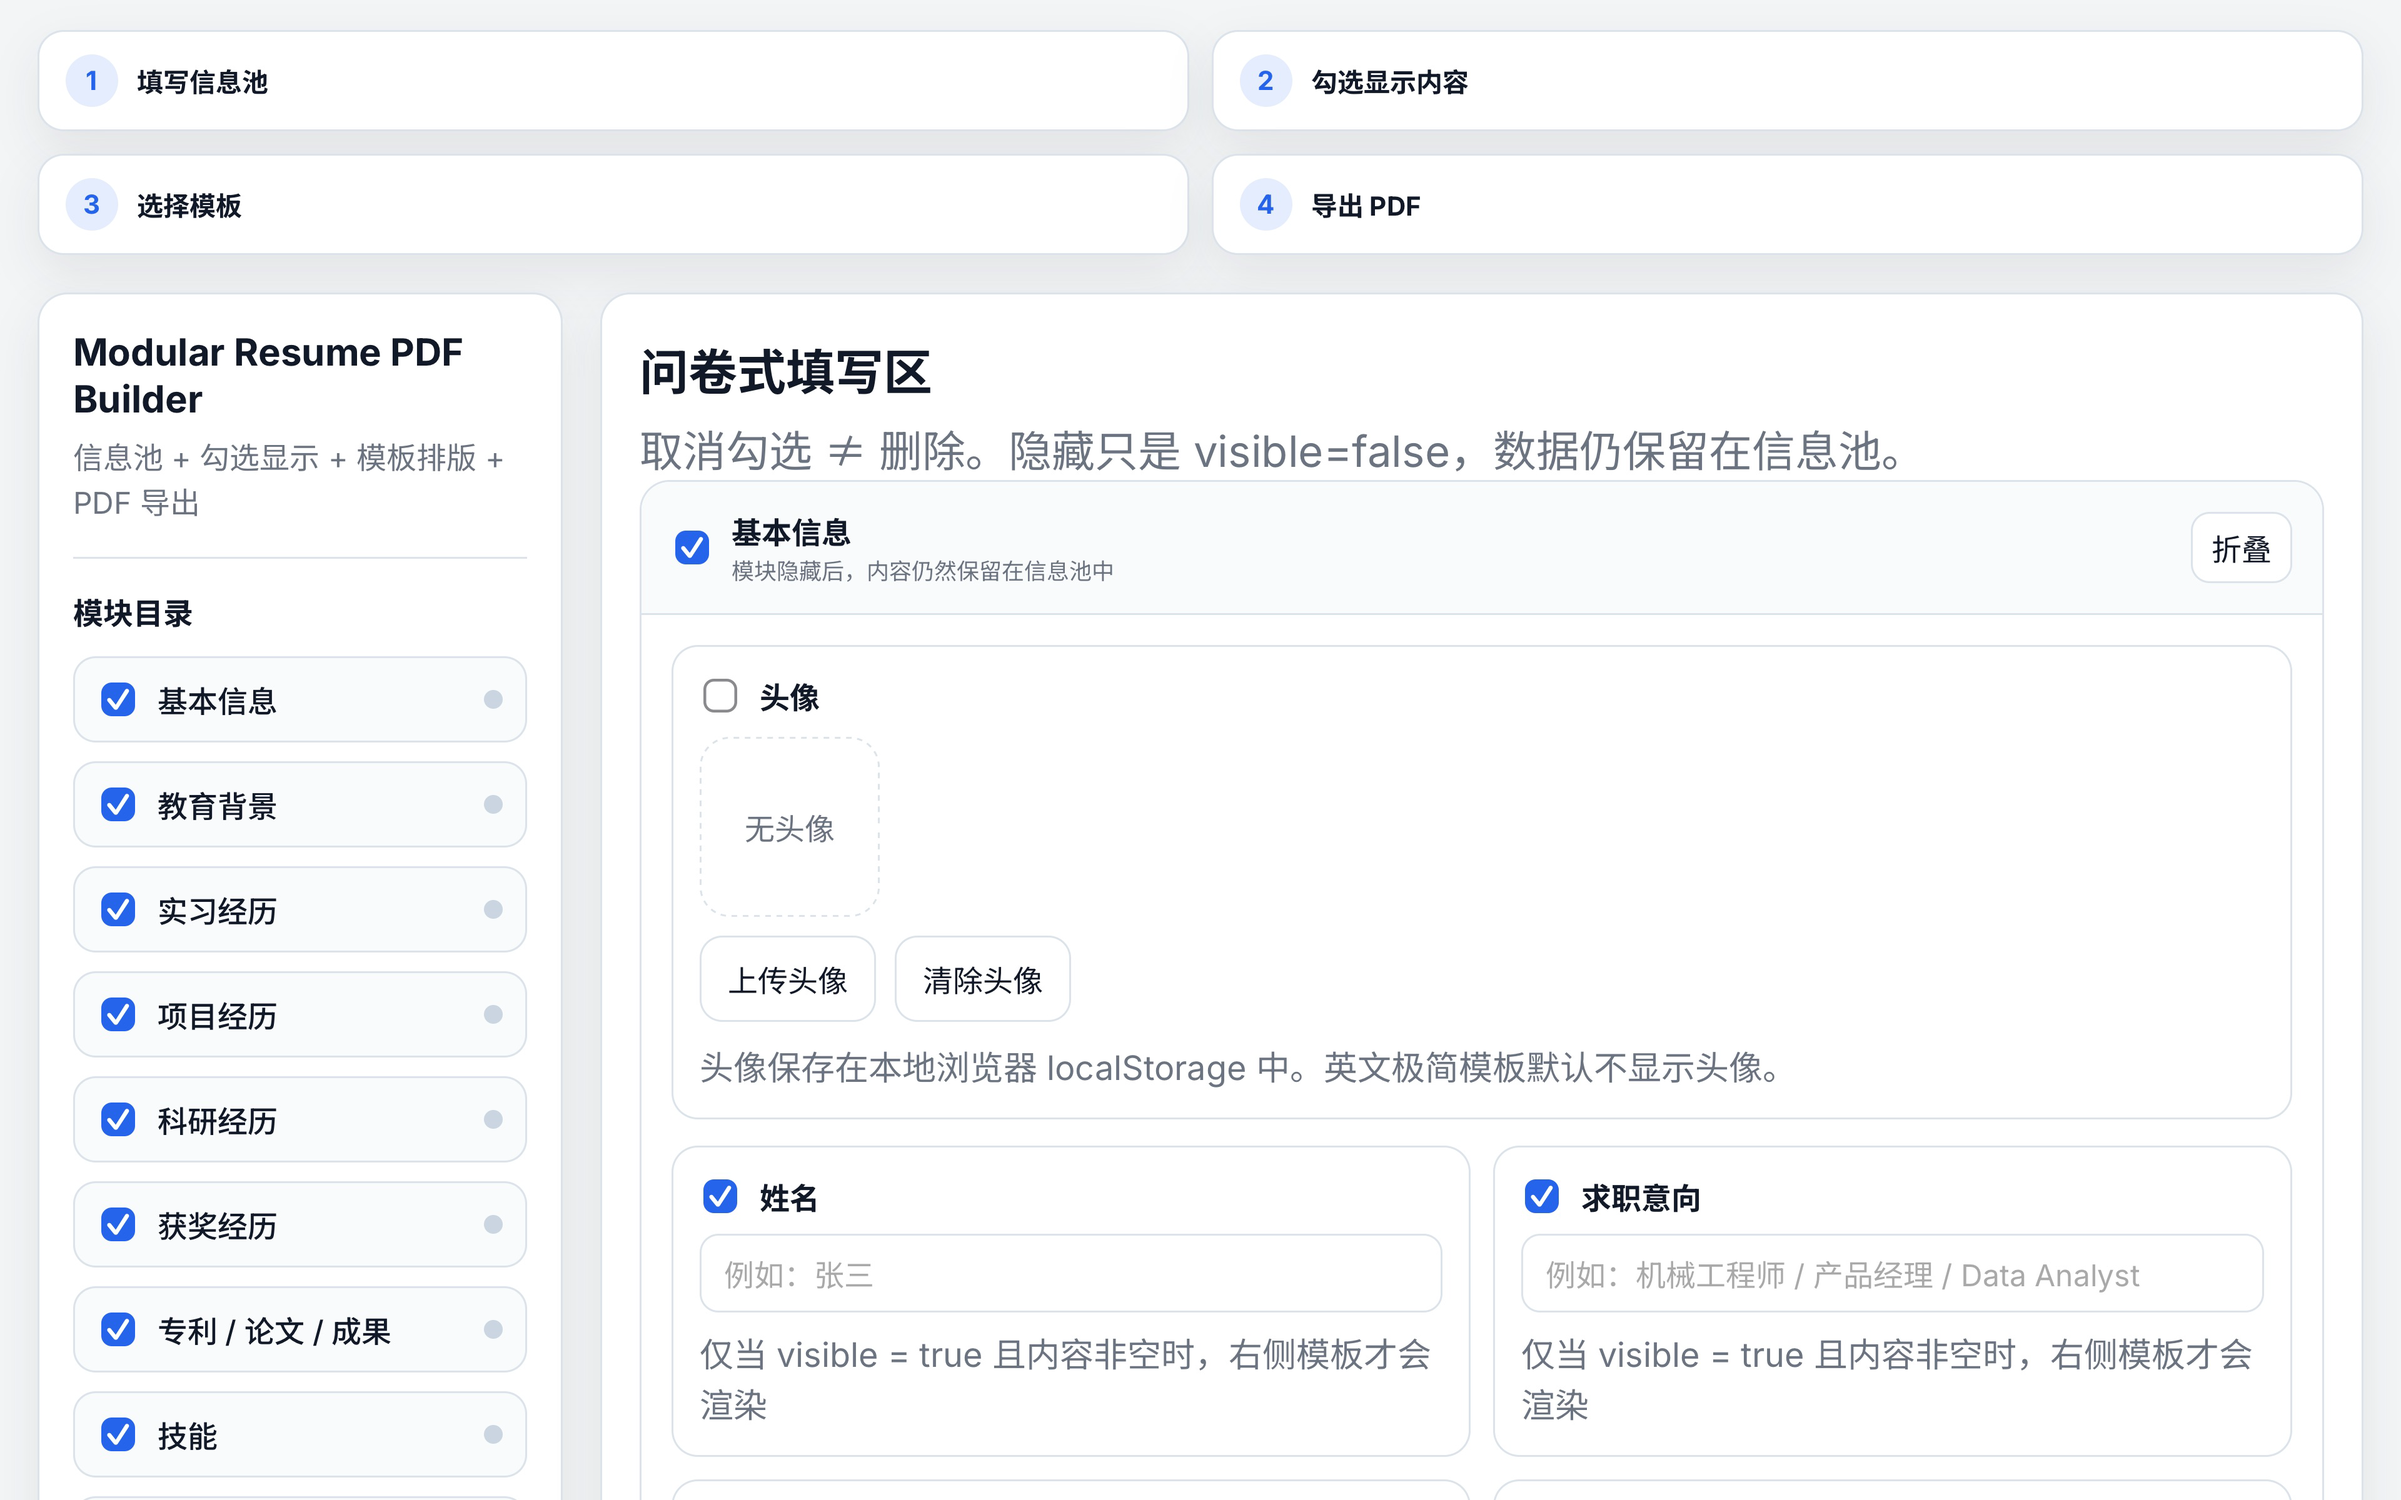
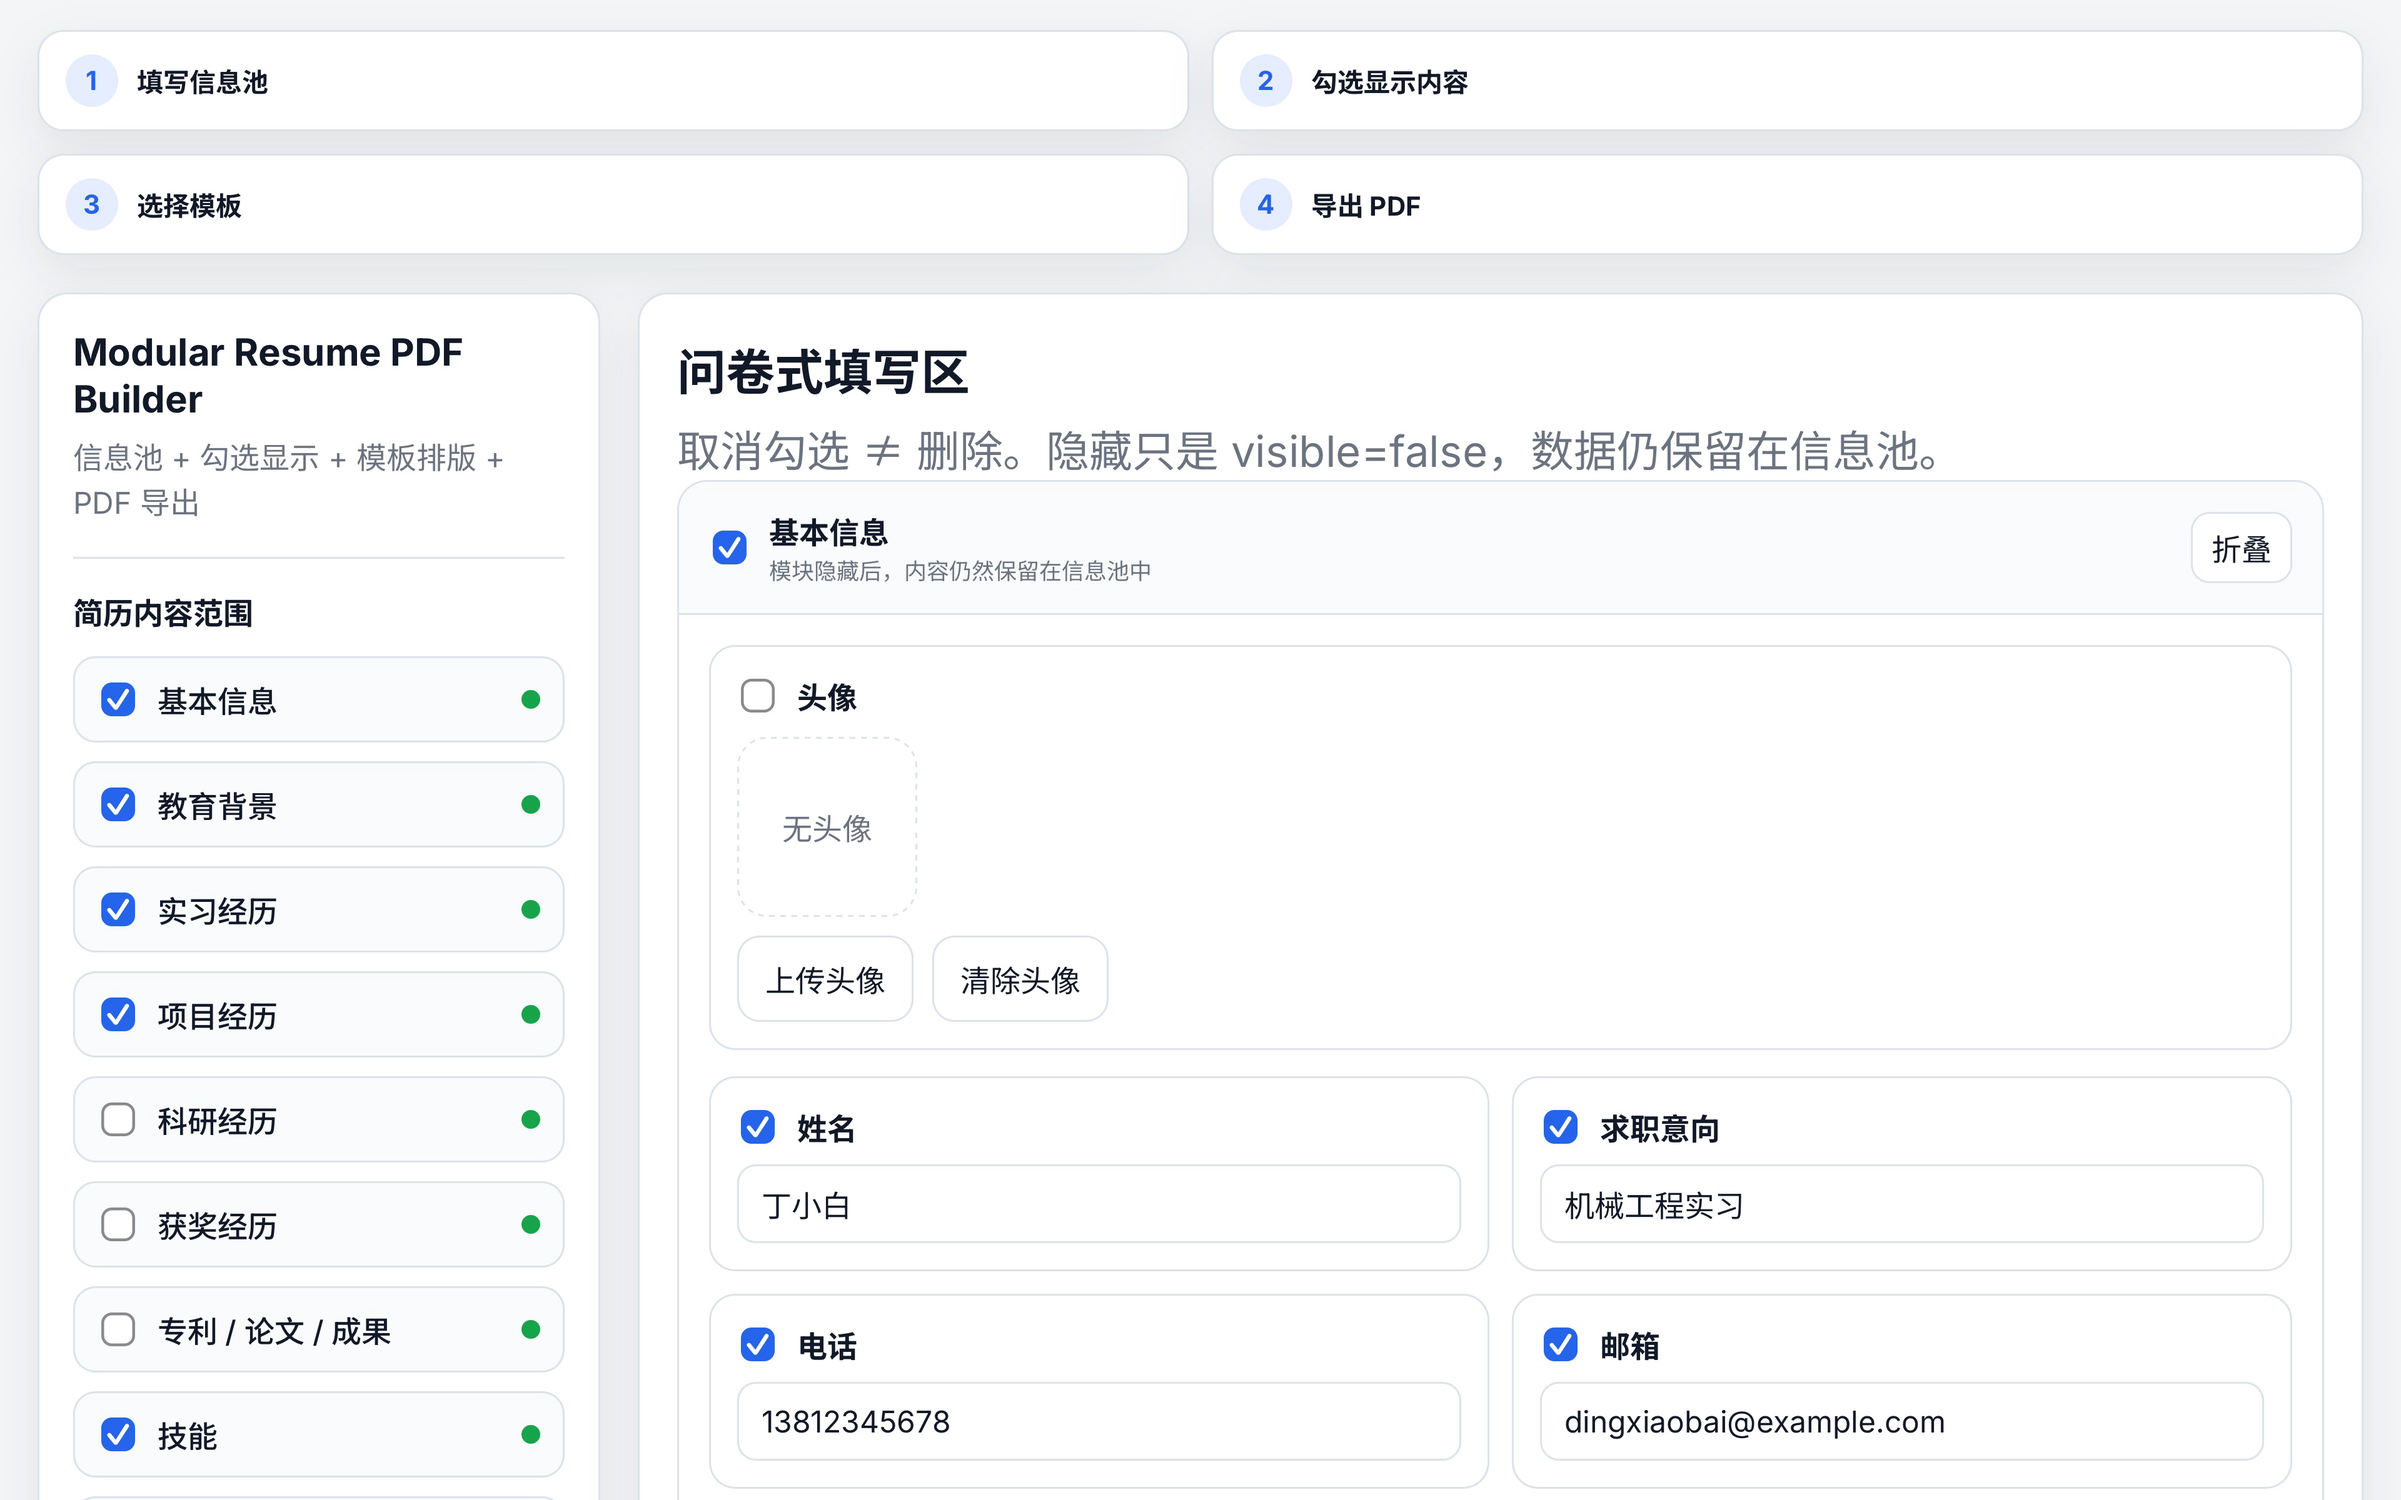
chore: prepare v1.0.1 release

diff --git a/README.md b/README.md
@@ -1,5 +1,7 @@
 # Modular Resume PDF Builder (Stable Front-end Release)
 
+Current stable version: v1.0.1
+
 A pure front-end resume builder based on a simple but powerful idea:
 
 **Fill the full information pool → choose what to show → switch templates → export PDF**
@@ -19,6 +21,27 @@ A pure front-end resume builder based on a simple but powerful idea:
 
 ### Live Preview
 ![Preview Screenshot](docs/screenshot-preview.png)
+
+---
+
+## Changelog
+
+### v1.0.1
+- Added custom PDF filename input
+- Renamed module navigation to Resume Content Scope / 简历内容范围
+- Editor now only shows selected modules
+- Adjusted default visible modules
+- Adjusted default personal information fields
+- Kept hidden module data preserved and restorable
+
+### v1.0.0
+- Initial stable release
+- Information pool editing
+- Field / item / bullet visibility controls
+- Multiple templates
+- Live preview
+- PDF export
+- Responsive desktop and mobile layout
 
 ---
 
